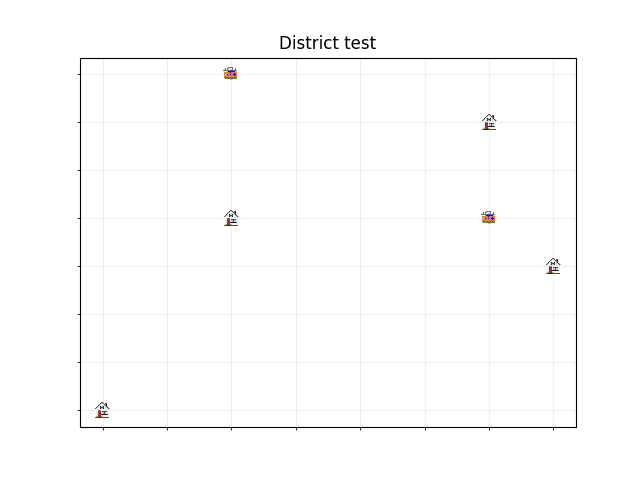
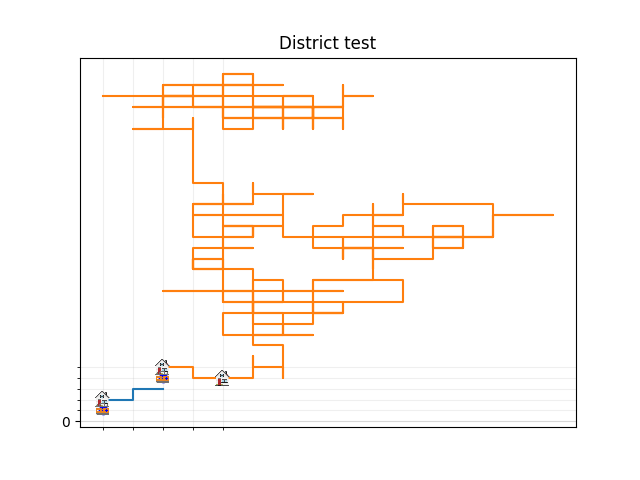
random_cables.py

diff --git a/code/algorithms/random_cables.py b/code/algorithms/random_cables.py
@@ -1,29 +1,59 @@
-from random import random
-from classes.route import Route
+import random
+from code.classes.route import Route
 import queue
 import copy
 
 def random_cables(grid):
+
     for house in grid.houses:
-        if True:
+        
+        while True:
             battery = random.choice(grid.batteries)
             if battery.remaining >= house.max_output:
                 break
 
-        house.route = Route(battery)
+        house.route = Route(battery, house.position_x, house.position_y)
 
-        depth = 20
-        
+        while not battery.position_x == house.route.list_x[-1] and not battery.position_y == house.route.list_y[-1]:
+            direction = random.choice(['x', 'y'])
+
+            if direction == 'x':
+                direction_x = random.choice([-1, 1])
+                xtest = house.route.list_x[-1] + direction_x
+
+                if xtest >= 0 or xtest <= grid.grid_width:
+                    house.route.list_x.append(xtest)
+                    ytest = house.route.list_y[-1]
+                    house.route.list_y.append(ytest)
+
+            else:
+                direction_y = random.choice([-1, 1])
+                ytest = house.route.list_y[-1] + direction_y
+
+                if ytest>= 0 or ytest <= grid.grid_height:
+                    house.route.list_y.append(ytest)
+                    xtest = house.route.list_x[-1]
+                    house.route.list_x.append(xtest)
+
+        print()
+        print(house.route.list_x)
+        print(house.route.list_y)
+        print()
 
 
-depth = 3
-queue = queue.Queue()
-queue.put("")
-while not queue.empty():
-    state = queue.get()
-    print(state)
-    if len(state) < depth:
-        for i in [ '1', '2']:
-            child = copy.deepcopy(state)
-            child += i
-            queue.put(child)
+
+
+
+
+#         depth = 20
+# depth = 3
+# queue = queue.Queue()
+# queue.put("")
+# while not queue.empty():
+#     state = queue.get()
+#     print(state)
+#     if len(state) < depth:
+#         for i in [ '1', '2']:
+#             child = copy.deepcopy(state)
+#             child += i
+#             queue.put(child)

diff --git a/code/classes/grid.py b/code/classes/grid.py
@@ -8,8 +8,8 @@ from .route import Route
 
 class Grid():
     def __init__(self, file_batteries, file_houses):
-        self.grid_width = 10
-        self.grid_height = 10
+        self.grid_width = 5
+        self.grid_height = 5
         self.batteries = self.load_battery(file_batteries)
         self.houses = self.load_houses(file_houses)
         # self.cable = cable
@@ -19,7 +19,7 @@ class Grid():
         """
         Load all the batteries into the graph.
         """
-        batteries = {}
+        batteries = []
         with open(file_batteries, 'r') as in_file:
             reader = csv.DictReader(in_file)
 
@@ -29,7 +29,7 @@ class Grid():
                 position_x_y = positie.split(",")
                 position_x = int(position_x_y[0])
                 position_y = int(position_x_y[1])
-                batteries[id] = Battery(id, position_x, position_y, row['capaciteit'])
+                batteries.append(Battery(id, position_x, position_y, float(row['capaciteit'])))
                 id += 1
 
         return batteries
@@ -38,22 +38,20 @@ class Grid():
         """
         Load all the houses into the graph.
         """
-        houses = {}
+        houses = []
         with open(file_houses, 'r') as in_file:
             reader = csv.DictReader(in_file)
 
             id = 0
             for row in reader:
-                houses[id] = House(id, float(row['maxoutput']), int(row['x']), int(row['y']))
+                houses.append(House(id, float(row['maxoutput']), int(row['x']), int(row['y'])))
                 
                 id += 1
 
             
-        houses[0].route = Route(0, [34, 33, 32, 32, 32, 31, 31, 30, 29], [47, 47, 47, 46, 45, 45, 44, 44, 44])
+        # houses[0].route = Route(0, [34, 33, 32, 32, 32, 31, 31, 30, 29], [47, 47, 47, 46, 45, 45, 44, 44, 44])
         return houses
 
-    def load_cable(self):
-        pass
 
 
     def get_height(self):

diff --git a/code/visualisation/visualise.py b/code/visualisation/visualise.py
@@ -10,8 +10,8 @@ def visualise(grid, number):
     # https://stackoverflow.com/questions/24943991/change-grid-interval-and-specify-tick-labels-in-matplotlib
     fig, ax = plt.subplots()
 
-    major_ticks = np.arange(0, 11, 10)
-    minor_ticks = np.arange(0, 11, 1)
+    major_ticks = np.arange(0, 6, 10)
+    minor_ticks = np.arange(0, 6, 1)
     ax.set_xticks(major_ticks)
     ax.set_xticks(minor_ticks, minor=True)
     ax.set_yticks(major_ticks)
@@ -27,17 +27,23 @@ def visualise(grid, number):
     x_battery = []
     y_battery = []
     for battery in grid.batteries:
-        x_battery.append(grid.batteries[battery].position_x)
-        y_battery.append(grid.batteries[battery].position_y)
+        x_battery.append(battery.position_x)
+        y_battery.append(battery.position_y)
 
     x_house = []
     y_house = []
     for house in grid.houses:
-        x_house.append(grid.houses[house].position_x)
-        y_house.append(grid.houses[house].position_y)
+        x_house.append(house.position_x)
+        y_house.append(house.position_y)
+        
 
+        x_route = house.route.list_x
+        y_route = house.route.list_y
+        ax.plot(x_route, y_route)
+                
     
     # test = grid.houses[0]
+
 
     # x_route = test.route.list_x
     # y_route = test.route.list_y

diff --git a/code/classes/house.py b/code/classes/house.py
@@ -1,7 +1,7 @@
 class House():
-    def __init__(self, id, maxoutput, position_x, position_y):
+    def __init__(self, id, max_output, position_x, position_y):
         self.id = id
-        self.maxoutput = maxoutput
+        self.max_output = max_output
         self.position_x = position_x
         self.position_y = position_y
         self.route = None

diff --git a/code/classes/route.py b/code/classes/route.py
@@ -1,8 +1,8 @@
 class Route():
-    def __init__(self, battery):
+    def __init__(self, battery, x, y):
         self.battery = battery
-        self.list_x = []
-        self.list_y = []
+        self.list_x = [x,]
+        self.list_y = [y,]
 
     def length(self):
         price = len(self.list_x) * 9

diff --git a/main.py b/main.py
@@ -2,7 +2,6 @@ from sys import argv
 from code.classes import grid
 from code.visualisation import visualise
 from os import path
-
 from code.algorithms import random_cables
 
 
